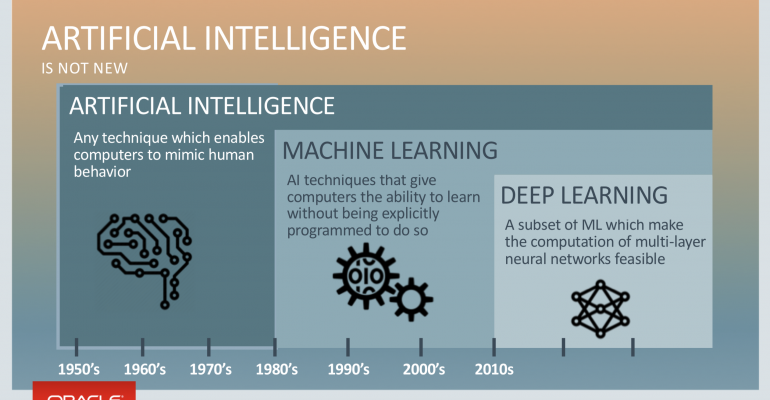
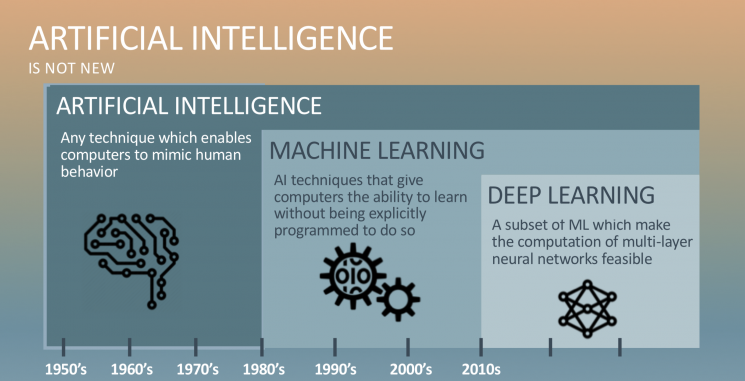
修改图片大小

Changed region(s): [[0.0, 0.0, 1.0, 1.0]]

diff --git a/README.md b/README.md
@@ -1,44 +1,43 @@
 # 总览人工智能、机器学习和深度学习
-<div>
-    <center>
+<p align="center">
     <img src="./imgs/difference_between_ai__machine_learning_and_deep_learning2.png"
          title="https://blogs.nvidia.com/blog/2016/07/29/whats-difference-artificial-intelligence-machine-learning-deep-learning-ai/"
-         style="zoom:0.76"/>
-    </center>
-</div>
-<div>
-    <center>
+         width="70%" />
+</p>
+<p align="center">
     <img src="./imgs/difference_between_ai__machine_learning_and_deep_learning.png"
          title="https://www.designnews.com/electronics-test/4-reasons-use-artificial-intelligence-your-next-embedded-design"
-         style="zoom:1"/>
-    </center>
-</div>
+         width="70%" />
+</p>
+</br>   
 
-* **人工智能**：所有让计算机去模仿人类行为的技术，让机器具备人类的智慧。(Human Intelligence Exhibited by Machines)
+**人工智能**：所有让计算机去模仿人类行为的技术，让机器具备人类的智慧。(Human Intelligence Exhibited by Machines)  
 >回到1956年夏天的会议上，那些人工智能先驱的梦想是建造复杂的机器，由新兴的计算机实现，拥有与人类智能相同的特征。这就是我们所认为的“通用人工智能”(General AI)的概念——拥有我们所有感官(甚至更多)、所有理性，并像我们一样思考的神奇机器。  
 你已经在电影中无数次看到这些机器，比如终结者。通用人工智能机器一直出现在电影和科幻小说中是有原因的，因为我们做不到，至少现在不行。   
 我们所能做的就是“狭义人工智能”(Narrow AI)。这些技术能够像人类一样完成特定的任务，甚至比人类做得更好，比如下围棋(AlphaGo)。  
 PS：[北京通用人工智能研究院](https://baike.baidu.com/item/%E5%8C%97%E4%BA%AC%E9%80%9A%E7%94%A8%E4%BA%BA%E5%B7%A5%E6%99%BA%E8%83%BD%E7%A0%94%E7%A9%B6%E9%99%A2/55726794?fr=aladdin)(2020年成立)在研究具有自主的感知、认知、决策、学习、执行和社会协作能力，符合人类情感、伦理与道德观念的通用智能体。
 
+</br>      
 
-* **机器学习**：机器学习是实现人工智能的一种方法。(An Approach to Achieve Artificial Intelligence)
+**机器学习**：机器学习是实现人工智能的一种方法。(An Approach to Achieve Artificial Intelligence)  
 >它不需要人类显示地(explicitly)编程去告诉计算机如何去做，而是使用大量的数据和算法进行训练，使其能够学习如何执行任务。
 
+</br>   
 
-* **深度学习**：深度学习是实现机器学习的一门技术。(A Technique for Implementing Machine Learning)
+**深度学习**：深度学习是实现机器学习的一门技术。(A Technique for Implementing Machine Learning)  
 > 从最早简单的[感知机](https://en.wikipedia.org/wiki/Perceptron)(perceptron,1958)，到[多层感知机](https://en.wikipedia.org/wiki/Multilayer_perceptron)(Multilayer Perceptron,1961)，再到[LeNet](https://en.wikipedia.org/wiki/LeNet)(1998)，最后到[AlexNet](https://en.wikipedia.org/wiki/AlexNet)(2012)，研究者发现，随着网络层数的增加，模型的效果可以得到十分显著的提升（AlexNet在ImageNet竞赛中将错误率降到了15.3%，远低于第二名的26.2%）。  
 从此，这种网络层数非常深的模型得到了越来越多研究者的青睐，时至今日(2022.12)AlexNet的引用量已经达到了12w。  
 之所以叫**深度**(deep)，主要由于研究者在设计网络模型的过程中，使用了很多的神经网络层(Neural network layer)以取得更佳的效果，我们把这种使用了很多网络层堆叠来构建、训练网络的机器学习技术称为**深度学习**。  
 
 </br>
 下面再展示一张比较流行的韦恩图，也许能进一步帮助你建立更清晰的知识层级：
-<div>
-    <center>
+
+
+<p align="center">
     <img src="./imgs/Relationship_between_artificial_intelligence_machine_learning_neural_network_and_deep_learning.jpg"
          title="https://twitter.com/DataScienceDojo/status/1557140164861902856"
-         style="zoom:1"/>
-    </center>
-</div>
+         width="70%"/>
+</p>
 
 # 本仓库的定位
 
